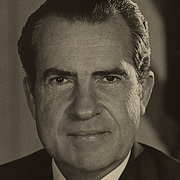
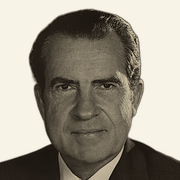
Cut the mark out of its background
The tab icon was the whole photograph, which at 32 pixels is a face in a dark
rectangle and reads as a smudge. He is now lifted off the flag and the curtain
behind him, so the mark is a bust with nothing around it and the shape carries
at any size.

The share card gains more than the favicon does: he stands on the site's own
paper rather than sitting inside a framed photograph on it, which is the
difference between a logo and a screenshot of a portrait.

Transparency where it helps and not where it hurts. The tab icon, the png and
the masthead mark keep their alpha; the touch icon does not, because iOS
composites one onto black and a cut-out head would arrive floating in a void.
The card is a JPEG and cannot have any, so it is flattened onto the paper.

The masthead mark loses its white border with the rectangle it was framing - a
cut-out standing on the wordmark's baseline, not another pinned photograph.

og:url and og:image now name hellscabinet.com. They were pointing at the Vercel
deployment, which this project has since retired.

Claude-Session: https://claude.ai/code/session_01HDrKcag3n2pSU2TvDz2jdx

diff --git a/src/app/styles.css b/src/app/styles.css
@@ -252,8 +252,8 @@ h1, h2, h3 { text-wrap: balance; }
 /* The clipboard fallback prints the whole cabinet, so it needs its line breaks. */
 .copy-share { display: block; white-space: pre-wrap; font-family: var(--typewriter); font-size: 11px; margin-top: 6px; }
 
-/* The masthead mark. Squared off and edged in paper like a pinned photograph,
-   because everything else on this board is one. */
+/* The masthead mark. Cut out rather than framed: a bust standing on the
+   baseline of the wordmark, not another pinned photograph. */
 .wordmark { display: flex; align-items: center; justify-content: center; gap: 13px; }
-.wordmark-mark { flex-shrink: 0; width: 46px; height: 46px; object-fit: cover; border: 3px solid #fff9ee; box-shadow: 1px 2px 4px #55422b3d; }
-@media (max-width: 740px) { .wordmark-mark { width: 38px; height: 38px; border-width: 2px; } }
+.wordmark-mark { flex-shrink: 0; width: 52px; height: 52px; object-fit: contain; align-self: flex-end; }
+@media (max-width: 740px) { .wordmark-mark { width: 42px; height: 42px; } }

diff --git a/index.html b/index.html
@@ -21,8 +21,8 @@
     <meta property="og:description" content="One historical crisis a day. Six seats to fill, and whoever the draft happens to offer you." />
     <meta property="og:type" content="website" />
     <!-- Absolute: several scrapers will not resolve a relative og:image. -->
-    <meta property="og:url" content="https://hellscabinet-glny.vercel.app/" />
-    <meta property="og:image" content="https://hellscabinet-glny.vercel.app/og.jpg" />
+    <meta property="og:url" content="https://hellscabinet.com/" />
+    <meta property="og:image" content="https://hellscabinet.com/og.jpg" />
     <meta property="og:image:width" content="1200" />
     <meta property="og:image:height" content="630" />
     <meta name="twitter:card" content="summary_large_image" />
